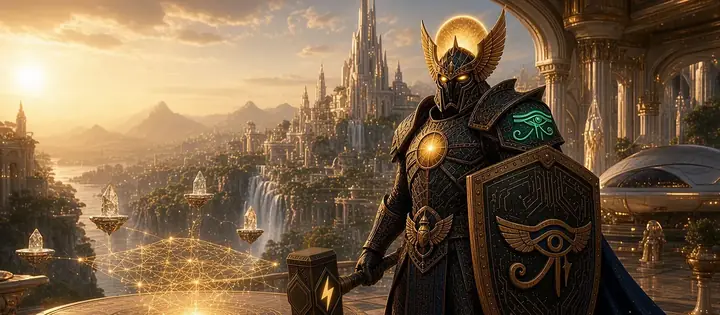
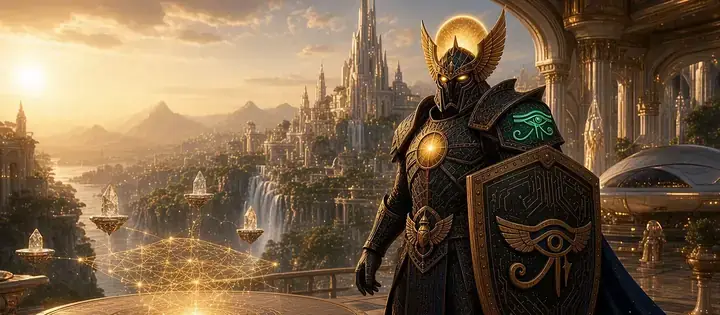
EXAMPLES-NO-HAMMER-1: take the hammer out of the examples page art (Sherif 5:10 PM ET)
Hero and the three card thumbnails on examples.html, masked repaint only.
Alt text updated, hero byte pins moved, ruling recorded in docs/ART-CANON.md.

Changed region(s): [[0.3972, 0.7714, 0.5806, 1.0]]

diff --git a/examples.html b/examples.html
@@ -46,7 +46,7 @@
 <body class="bg-black text-white overflow-x-hidden">
   <main class="max-w-3xl mx-auto px-4 sm:px-6 py-12 sm:py-16" id="rt-family-main" dir="ltr" lang="en" data-rt-prose>
     <figure class="rt-art-hero rounded-2xl">
-      <img src="/assets/art/hero-examples-workbench-bolt-768.webp" srcset="/assets/art/hero-examples-workbench-bolt-768.webp 768w, /assets/art/hero-examples-workbench-bolt-1280.webp 1280w" sizes="(max-width: 800px) 100vw, 768px" width="1280" height="720" alt="Ra-Thor in dark gold-trimmed armour with a winged helm and emerald eye shoulder seals rests one hand on his great war hammer, its dark carved head marked with a glowing gold lightning bolt, and reaches toward a glowing gold crystal on a carved workbench, with floating gold diagrams above and his black and gold shield propped against the bench." loading="eager" fetchpriority="high" decoding="async">
+      <img src="/assets/art/hero-examples-workbench-bolt-768.webp" srcset="/assets/art/hero-examples-workbench-bolt-768.webp 768w, /assets/art/hero-examples-workbench-bolt-1280.webp 1280w" sizes="(max-width: 800px) 100vw, 768px" width="1280" height="720" alt="Ra-Thor in dark gold-trimmed armour with a winged helm and emerald eye shoulder seals stands with one hand at his side and reaches toward a glowing gold crystal on a carved workbench, with floating gold diagrams above and his black and gold shield propped against the bench." loading="eager" fetchpriority="high" decoding="async">
     </figure>
     <div class="text-center mb-12">
       <h1 class="title-font text-5xl sm:text-6xl font-black tracking-tighter thunder-glow mb-3">Product examples</h1>

diff --git a/tests/hero-uniqueness.test.js b/tests/hero-uniqueness.test.js
@@ -287,7 +287,8 @@ textFiles.forEach(function (rel) {
 });
 assert(oldHits.length === 0, 'old relay-station / field-lab / gox-beacon / citadel-arrival heroes still named in ' + oldHits.join(', '));
 
-/* ART-UPLIFT-3: pilot gets new scoped-workbench art (Sherif 8:41 PM) and examples a canon redo (hammer bolt on both faces). */
+/* ART-UPLIFT-3: pilot gets new scoped-workbench art (Sherif 8:41 PM) and examples a canon redo (hammer bolt on both faces).
+   EXAMPLES-NO-HAMMER-1 (Sherif 5:10 PM ET, Nov 25): the examples hero has the hammer removed, so its byte pins moved. */
 var supplied = {
   'assets/art/hero-contact-comms-district-1672.webp': 244690,
   'assets/art/hero-contact-comms-district-768.webp': 76200,
@@ -295,8 +296,8 @@ var supplied = {
   'assets/art/hero-moment-research-garden-768.webp': 82366,
   'assets/art/hero-docs-archive-light-1280.webp': 157536,
   'assets/art/hero-docs-archive-light-768.webp': 73704,
-  'assets/art/hero-examples-workbench-bolt-1280.webp': 134546,
-  'assets/art/hero-examples-workbench-bolt-768.webp': 59626,
+  'assets/art/hero-examples-workbench-bolt-1280.webp': 131722,
+  'assets/art/hero-examples-workbench-bolt-768.webp': 58164,
   'assets/art/hero-gox-storm-signal-1280.webp': 147906,
   'assets/art/hero-gox-storm-signal-768.webp': 70348,
   'assets/art/hero-legal-hall-records-1280.webp': 91930,

diff --git a/docs/ART-CANON.md b/docs/ART-CANON.md
@@ -51,3 +51,4 @@ None of these has a Sherif quote on file in this record. Each comes from the ART
 | 2:17 PM | "This hammer example is mostly correct" (with the reference image) | The reference image is his example, which he called "mostly correct". He has not said which parts are off. |
 | 2:18 PM | "Make sure to keep everything Cannon for future use as we make decisions permanent." | This file is the permanent record. |
 | 3:00 PM | "Chat.html and pilot.html have correct hammers the rest should follow them" | The chat.html and pilot.html hero hammers are the model for every hero (see Hammer). The other six hammers (Launch-Ra-Thor, briefing, employ, web-forge, examples and sovereign-shard) were repainted to follow them. |
+| 5:10 PM (Nov 25) | "All 4 images on this page have incorrect hammer cannon. Maybe an easy fix is to remove the hammer from these 4?" | On examples.html the hammer was taken out of the hero and the three card thumbnails (Launch, Shard demo, Forge). The sovereign-shard, web-forge and Launch-Ra-Thor page heroes keep their hammers. The Shard and Forge thumbnails are also shown on Launch-Ra-Thor.html. |
